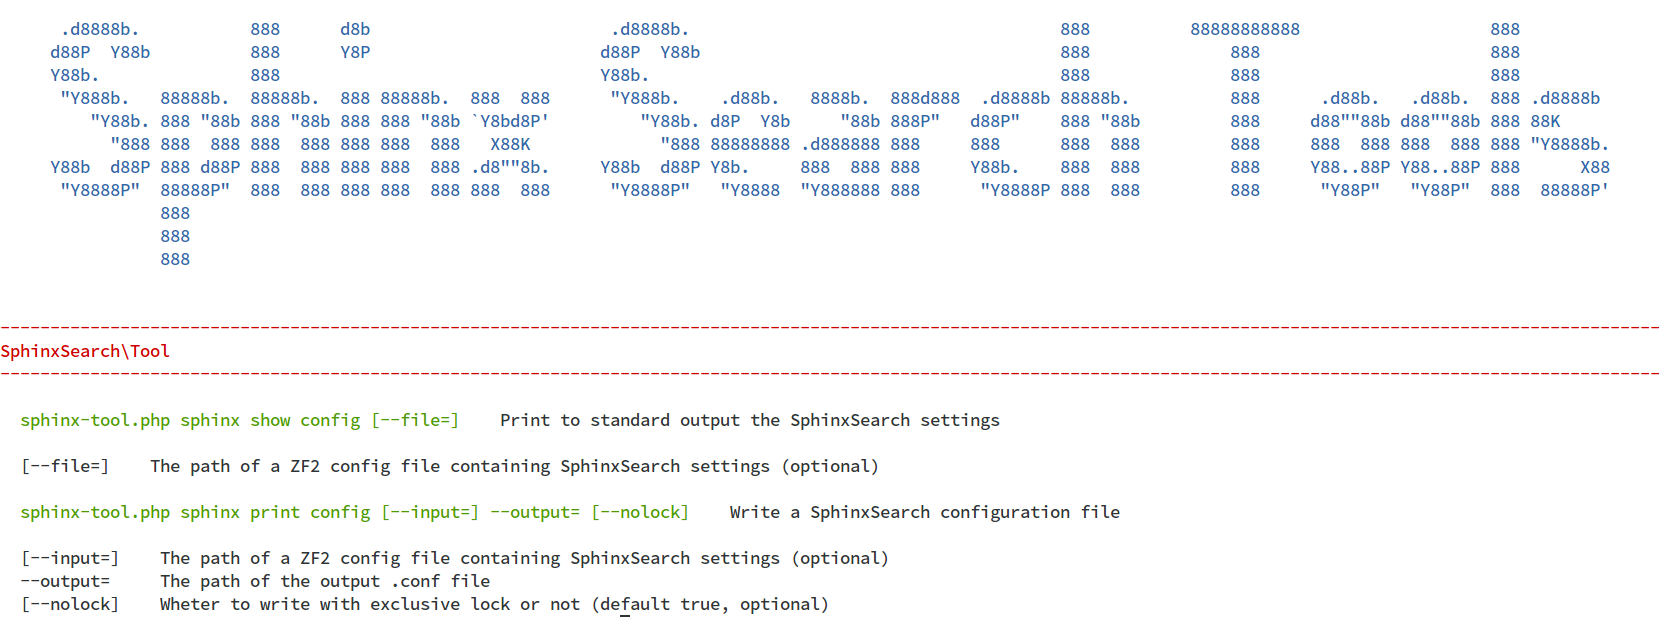
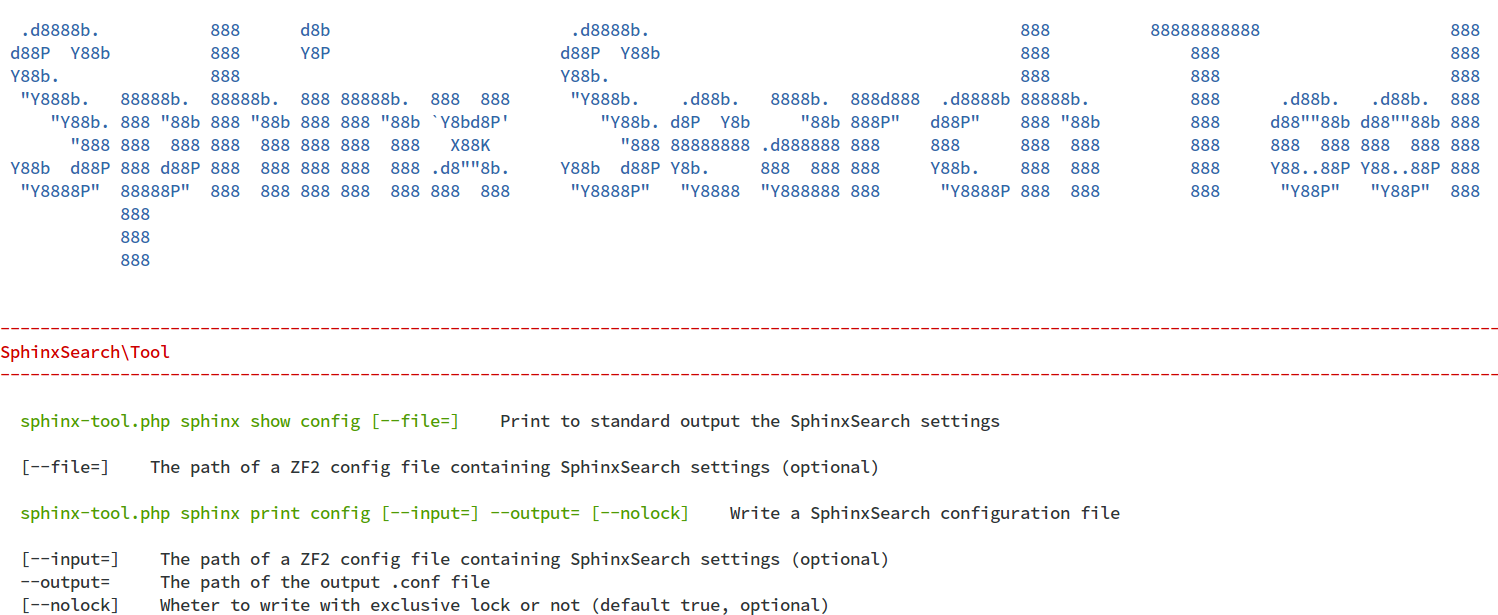
Doc fix

diff --git a/Module.php b/Module.php
@@ -63,7 +63,7 @@ class Module implements
         $figlet = new Figlet(['font' => __DIR__ . '/assets/font/colossal.flf']);
         $figlet->setOutputWidth($console->getWidth());
         $figlet->setJustification(Figlet::JUSTIFICATION_CENTER);
-        return PHP_EOL . $figlet->render('Sphinx Search Tools');
+        return PHP_EOL . $figlet->render('Sphinx Search Tool');
     }
 
     /**

diff --git a/README.md b/README.md
@@ -1,13 +1,13 @@
 Sphinx Search Tool
 ==================
 
+![Help message](help-img.png "Help message")
+
 An utility that provides a set of tools to configure and handle Sphinx Search configurations and sources.
 
 The main purpose is to provide an automated way to build a Sphinx Search configuration starting from a ZF2 configuration file.
 
 It runs from the command line as standalone CLI tool or can be installed as a ZF2 module.
-
-![Help message](help-img.png "Help message")
 
 ## References
 
